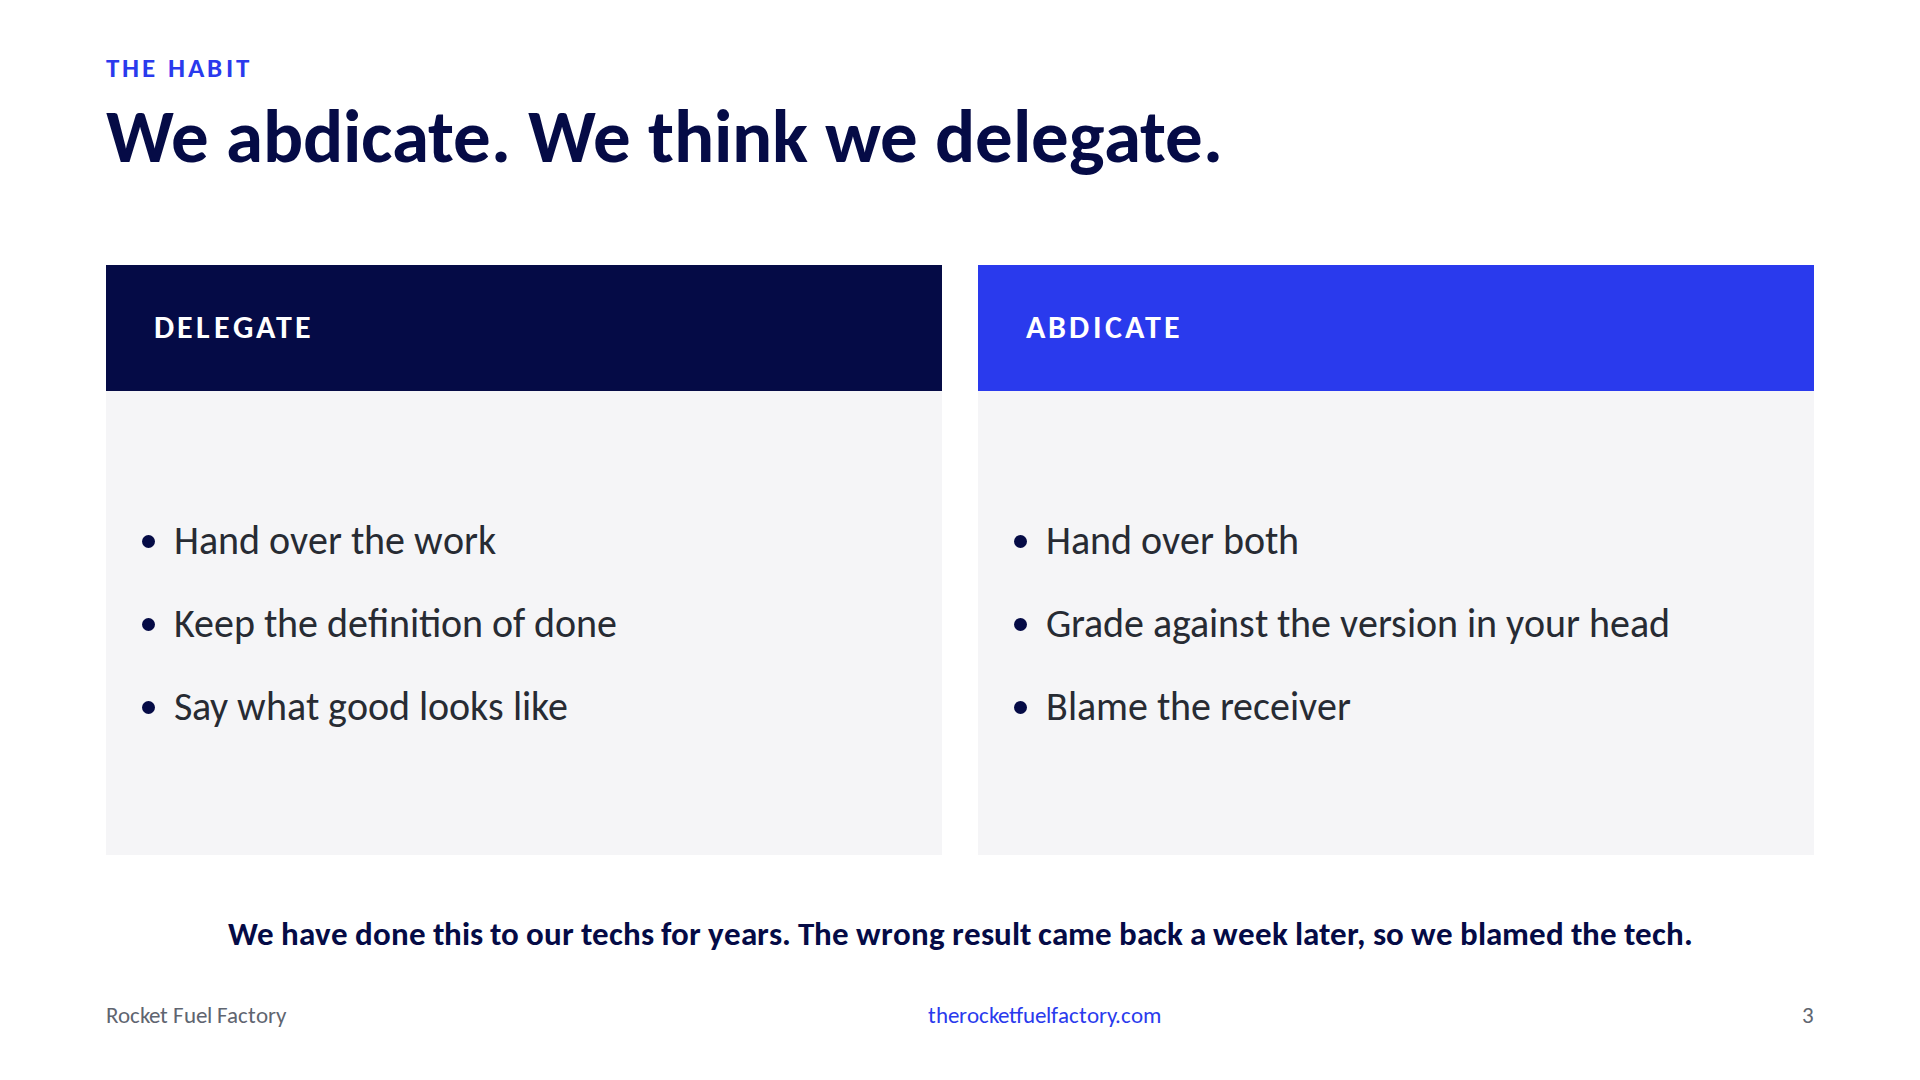
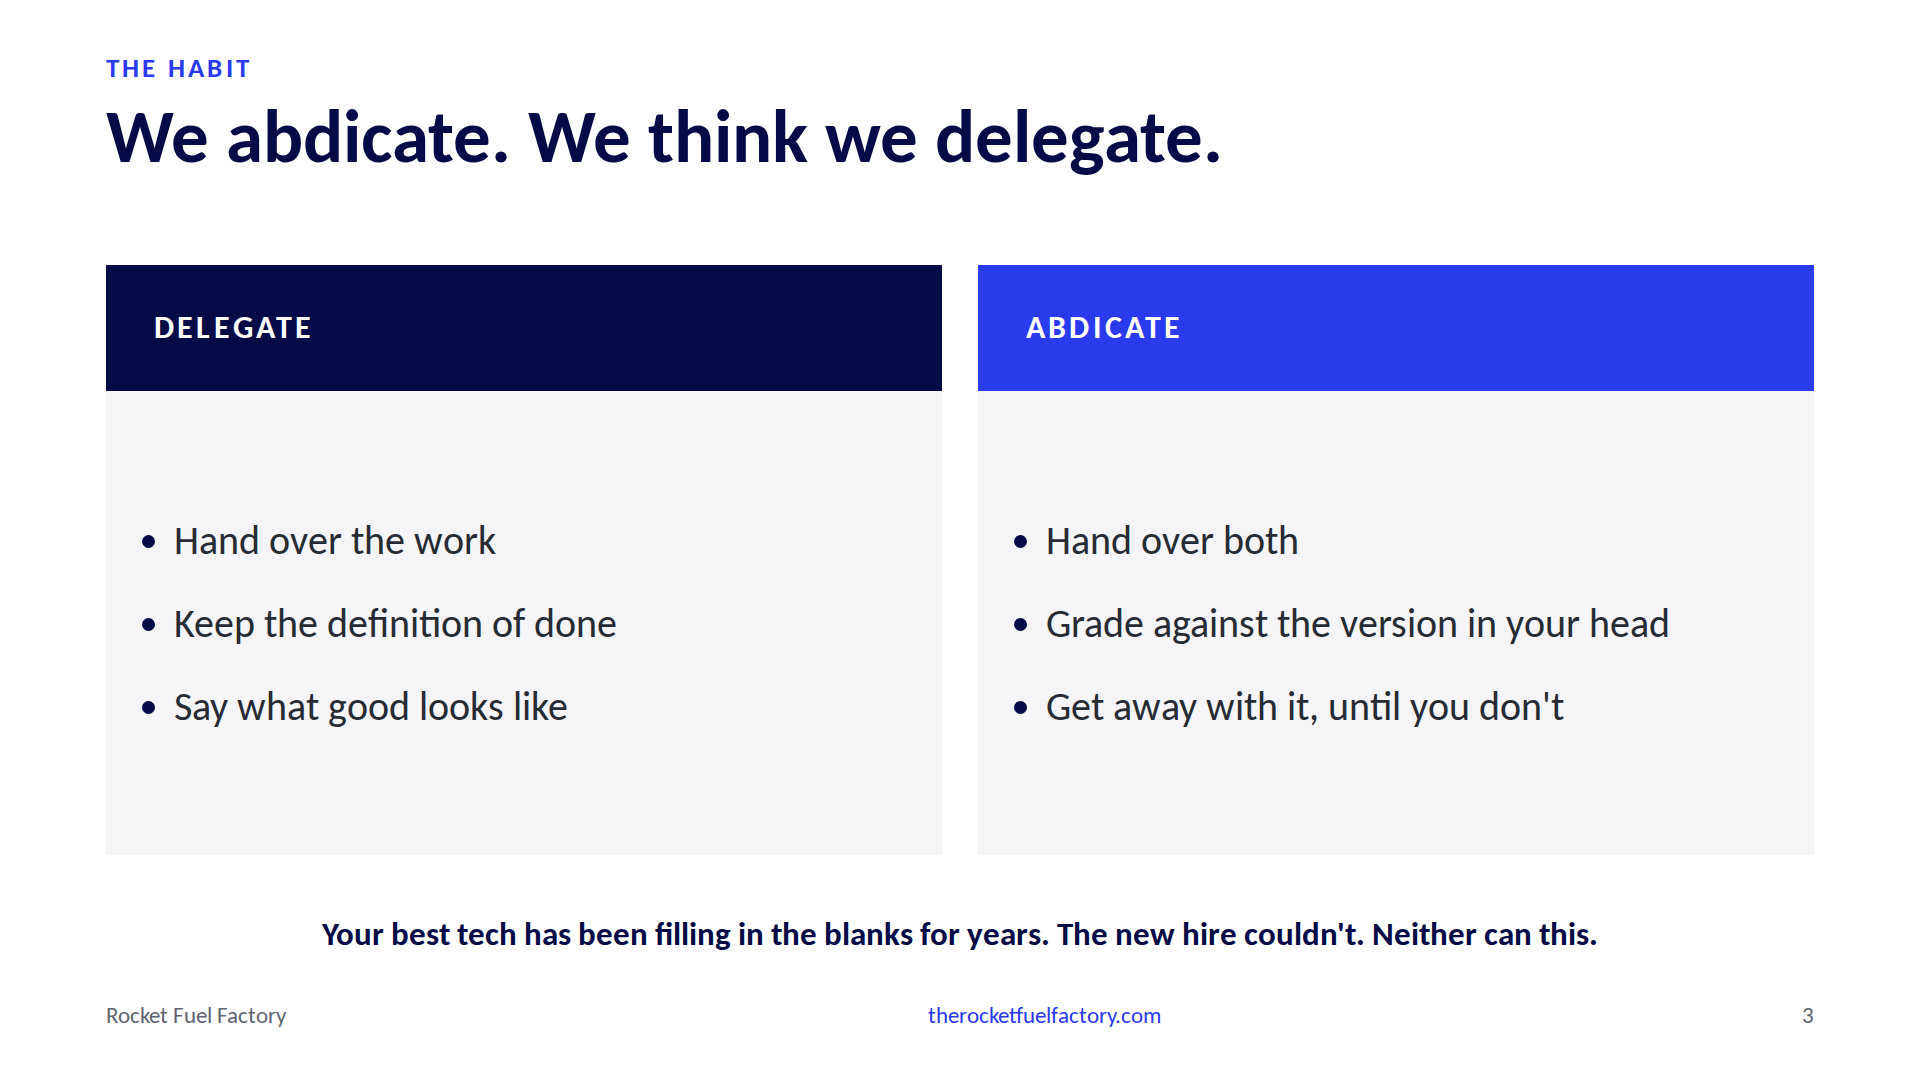
The best tech fills in the blanks: fix the mechanism on slide 3, sharpen the closing action

Changed region(s): [[0.125, 0.8556, 0.875, 0.8861], [0.5312, 0.6417, 0.8125, 0.6722]]

diff --git a/src/data/notes.js b/src/data/notes.js
@@ -6,9 +6,9 @@
 export const notes = {
   cover: 'Target 0:00. No verbatim line. Land straight after Dawn and Dave. Do not summarize their talk, one sentence of thanks and go.',
   automatons: 'Target 0:20. SLOW. Say the line flat, then describe a tech\'s actual day: open one app, read it, type into another, repeat until five. That is the job the computer was supposed to have. Let it sit. This is the opinion the room did not expect.',
-  'abdicate-not-delegate': 'Target 1:30. Line to land: delegating is handing over the work and keeping the definition of done. Abdicating is handing over both. Then the confession: we have done this to our techs for years. The wrong result came back a week later, so we blamed the tech.',
+  'abdicate-not-delegate': 'Target 1:30. Line to land: delegating is handing over the work and keeping the definition of done. Abdicating is handing over both. Then the mechanism, and this is the part that matters: you have gotten away with it because your best tech fills in what you meant. They were on the call, they know Dana, they know what you would never say to a client. The vague brief works on them, so you never find out it was vague. Then you give the same brief to the new hire and decide the new hire is not working out. Closing line off the slide: your best tech has been filling in the blanks for years, the new hire could not, neither can this.',
   'the-demo-never-had-a-client': 'Target 3:00. Twenty seconds. No vendor names. Every AI keynote is one sentence and magic, and it works because the presenter has no stake in which game he gets. Then you go home and ask for a client email, where every detail is the job. The demo taught you to abdicate. The demo never had a client.',
-  'demo-weak': 'Target 3:40. The mirror. This is what everyone in the room actually does: one line, paste the ticket. Read the line. Point at the ticket: it has everything a tech needs. Full waiting room, FGT-60F, Phase 1, DigiCert, and the aside that we flagged this cert in Q2 and nobody approved the renewal. Every fact. Click.',
+  'demo-weak': 'Target 3:40. The mirror. This is what everyone in the room actually does: one line, paste the ticket. Read the line. Point at the ticket: it has everything a tech needs. Full waiting room, FGT-60F, Phase 1, DigiCert, and the aside that we flagged this cert in Q2 and nobody approved the renewal. Your best tech reads that and knows what to leave out. This reader has no idea who Dana is. Click.',
   'demo-weak-output': 'Target 4:30. Whole thing, two columns, so they can see how long it is. Read it as Dana. Ticket number in the subject line. Bold section headers like an incident report. Bottom right: Your Company Name, it did not know who was speaking. Then the blue sentence. Read it aloud: this certificate had actually been flagged for renewal in our Q2 review, and we are correcting the gap that let it lapse. That is the one line in the ticket you would never put in front of a client, and it is now in an email Dana forwards to the practice owner. When I reran this, it did that two times out of three. The third time it hid it. You did not get a vote either way. Line to land: you pasted the ticket, it told your client what you never approved. Then: it did exactly what you wrote. So did your tech. This one was fast enough for you to notice.',
   'demo-brief': 'Target 7:15. Now you know what to say. Same ticket pasted underneath; these are the words that went above it, in plain prose. Point at what the machine asked for and you supplied: who Dana is and that she forwards it to Dr. Patel, do not quote the ticket, the Q2 conversation is for me and the owner, no patient data because that is what she asked on the phone, and on top of it means monitoring by Friday. This is delegating.',
   'demo-strong': 'Target 8:30. Loud punchline: same tool, same task, the only thing that changed was how you asked. Under 150 words, Dr. Patel named, forwardable. Then the bridge to Aharon: same habit, bigger scale.',
@@ -16,12 +16,12 @@ export const notes = {
   'aharons-law': 'Target 9:30. SLOW. Say the law, credit Aharon, two full seconds of silence. Same habit, bigger scale.',
   'we-have-a-process': 'Target 10:00. We have a process means we have a person we abdicated to. Your first automation is your first honest audit. Ask the room the question and wait. Line to land: hire for the exception, automate the rule.',
   'the-wrong-things': 'Target 12:30. The one that bristles. Some people in the room sell auto-replies and templated QBRs. Say it anyway: that is automating the customer away. Automate the automaton instead. Line to land: automate to give time back to the customer, not to hide from them.',
-  'where-delivery-leaks': 'Target 14:30. SLOW. Read all six. Each description is who the process is for, not what it saves you. Say: pick one. This is what Table 3 works from at 4:15.',
+  'where-delivery-leaks': 'Target 14:30. SLOW. Read all six. Each description is who the process is for, not what it saves you. Every one of these runs today on somebody filling in the blanks. Say: pick one. This is what Table 3 works from at 4:15.',
   'divider-where-ai-belongs': 'Target 16:30. Transition. Speed is what these machines give you unconditionally. It exposes bad instructions instantly and executes them instantly. Fast is only a gift once you have said what good looks like.',
   'deterministic-vs-probabilistic': 'Target 17:00. Line to land: you already run a probabilistic system, it is called a tech at 4pm on a Tuesday. Read both columns aloud.',
   'guardrail-sandwich': 'Target 19:00. Callback to Right of Boom, two minutes not eight. Emphasize the check step. Land on: the AI never touches the customer or the record unguarded.',
   'honest-limit': 'Target 21:30. Line to land: the cost of AI is not tokens, it is review. A client cannot audit a vibe, they can audit a log. Sets up Bradley at 3:15.',
   'the-more': 'Target 23:00. SLOW. This is the title. Your own shop is the starting line. Your customers have the same automatons: invoices, approvals, renewals, same screens, same retyping. Nobody is selling them the fix. You just learned how. That is the more.',
-  'one-action': 'Target 25:00. End on the Table 3 handoff, not a thank you. One of the six, one hour with your best tech, write down what done looks like. That is delegating. Erik and Atul are about to talk about the version of this where the person the process lives in is you.',
+  'one-action': 'Target 25:00. End on the Table 3 handoff, not a thank you. One of the six, one hour with your best tech, and the instruction is precise: write down everything they fill in that you never said. That list is your definition of done. It has been in their head, not yours. Erik and Atul are about to talk about the version of this where the person the process lives in is you.',
   presenter: 'Target 26:00. One breath. Name, company, one sentence. About four minutes of buffer before the hard stop.',
 }

diff --git a/src/components/slides/019-OneAction.jsx b/src/components/slides/019-OneAction.jsx
@@ -4,7 +4,7 @@ export default function OneAction() {
   return (
     <ClosingSlide
       title="One hour, this month"
-      action="Pick one of the six. Sit with your best tech for an hour. Write down what done looks like. That is delegating. Bring the page to Table 3."
+      action="Pick one of the six. Sit with your best tech for an hour. Write down everything they fill in that you never said. That is your definition of done. Bring the page to Table 3."
       ecosystemLine="Global Sync Meetups | Accelerators | Workshops"
       copyrightLine="Copyright Rocket Fuel Factory. All rights reserved."
     />

diff --git a/src/components/slides/003-AbdicateNotDelegate.jsx b/src/components/slides/003-AbdicateNotDelegate.jsx
@@ -13,9 +13,9 @@ export default function AbdicateNotDelegate({ slideNumber }) {
       }}
       right={{
         heading: 'Abdicate',
-        items: ['Hand over both', 'Grade against the version in your head', 'Blame the receiver'],
+        items: ['Hand over both', 'Grade against the version in your head', 'Get away with it, until you don\'t'],
       }}
-      closing="We have done this to our techs for years. The wrong result came back a week later, so we blamed the tech."
+      closing="Your best tech has been filling in the blanks for years. The new hire couldn't. Neither can this."
     />
   )
 }

diff --git a/docs/OUTLINE.md b/docs/OUTLINE.md
@@ -12,7 +12,7 @@ Room: up to 100 MSP business owners, one track, hard stop, no product pitches
 
 ## Thesis
 
-Computers are automation tools, not automation recipients. We built them to do the work and became the automatons instead, because we abdicate rather than delegate: we hand over the work and the definition of done, then grade the result against the version in our heads. We did it to our techs for years and blamed the tech. AI made the habit visible because it hands the wrong result back in eight seconds with the request still on the screen. The remedy is the same for a tech, a workflow, and a model: say what good looks like. Then aim the machinery at the automaton work, yours first and then your customers', and spend the hours being present with them.
+Computers are automation tools, not automation recipients. We built them to do the work and became the automatons instead, because we abdicate rather than delegate: we hand over the work and the definition of done, then grade the result against the version in our heads. We got away with it because the best tech filled in what we meant; the habit only shows when the brief reaches someone without the context: the new hire, the vendor, the machine. AI made it visible because it has no context to fill in with and hands the result back in eight seconds with the request still on the screen. The remedy is the same for a tech, a workflow, and a model: say what good looks like. Then aim the machinery at the automaton work, yours first and then your customers', and spend the hours being present with them.
 
 Closing line: If you can't write the rule, you can't hire your way out of it either.
 
@@ -36,7 +36,7 @@ Closing line: If you can't write the rule, you can't hire your way out of it eit
 
 1. Cover
 2. Automatons (pull statement, blue). SLOW. We built computers to do the work. Then we became the automatons. Open one app, read it, type into another, repeat until five.
-3. We abdicate, we think we delegate (comparison). Delegate: hand over the work, keep the definition of done, say what good looks like. Abdicate: hand over both, grade against the version in your head, blame the receiver. We did this to our techs for years; the wrong result came back a week later so we blamed the tech.
+3. We abdicate, we think we delegate (comparison). Delegate: hand over the work, keep the definition of done, say what good looks like. Abdicate: hand over both, grade against the version in your head, get away with it until you don't. The mechanism: the best tech fills in what you meant, so the vague brief works and you never learn it was vague. The new hire gets the same brief and no context, and you decide the new hire is not working out. Closing: your best tech has been filling in the blanks for years. The new hire couldn't. Neither can this.
 4. The demo never had a client (two-column). Every AI keynote is one sentence then magic; it works because the presenter has no stake in which game he gets. Then you go home and ask for a client email where every detail is the job. No vendor names. Twenty seconds.
 5. Abdicating to a machine (full-width ask). What everyone actually does: one line ("Write an email to the client about this. Apologize and let them know we're on top of it.") above a pasted PSA ticket. The ticket has everything a tech needs: full waiting room, FGT-60F, Phase 1, DigiCert, and the aside that this cert was flagged in the Q2 review and nobody approved the renewal. Every fact.
 6. What the client would have received (full-width output, whole, two columns). Ticket number in the subject. Incident-report headers. Placeholder sign-off. And in blue, the machine's own sentence to Dana: this certificate had actually been flagged for renewal in our Q2 review, and we're correcting the gap that let it lapse. The one line in the ticket you would never put in front of a client, now in an email she forwards to the practice owner. Reran it three times: disclosed twice, hidden once, you did not get a vote either way. Line: you pasted the ticket, it told your client what you never approved. Then: it did exactly what you wrote. So did your tech. This one was fast enough for you to notice.
@@ -53,13 +53,14 @@ Closing line: If you can't write the rule, you can't hire your way out of it eit
 16. The Guardrail Sandwich (process flow, gold). Gather, validate, draft, check, log. The AI never touches the customer or the record unguarded. Right of Boom callback, two minutes.
 17. The honest limit (two-column, gold). The cost of AI isn't tokens, it's review. A client can't audit a vibe; they can audit a log. Sets up Bradley.
 18. The more (two-column, blue). SLOW. Your customers have automatons too: invoices, approvals, onboarding, renewals. Nobody is selling them the fix. You get hours to be present, a case study they watched you build, the next line on the invoice.
-19. One action (closing). Pick one of the six. Sit with your best tech for an hour. Write down what done looks like. That is delegating. Bring the page to Table 3. Hand to Erik and Atul: the version where the person the process lives in is you.
+19. One action (closing). Pick one of the six. Sit with your best tech for an hour. Write down everything they fill in that you never said. That is your definition of done. Bring the page to Table 3. Hand to Erik and Atul: the version where the person the process lives in is you.
 20. Presenter.
 
 ## Lines to drop verbatim, once each
 
 - We built computers to do the work. Then we became the automatons.
 - Delegating is handing over the work and keeping the definition of done. Abdicating is handing over both.
+- Your best tech has been filling in the blanks for years. The new hire couldn't. Neither can this.
 - The demo never had a client.
 - It did exactly what you wrote. So did your tech. This one was fast enough for you to notice.
 - Same tool. Same task. The only thing that changed was how you asked.
